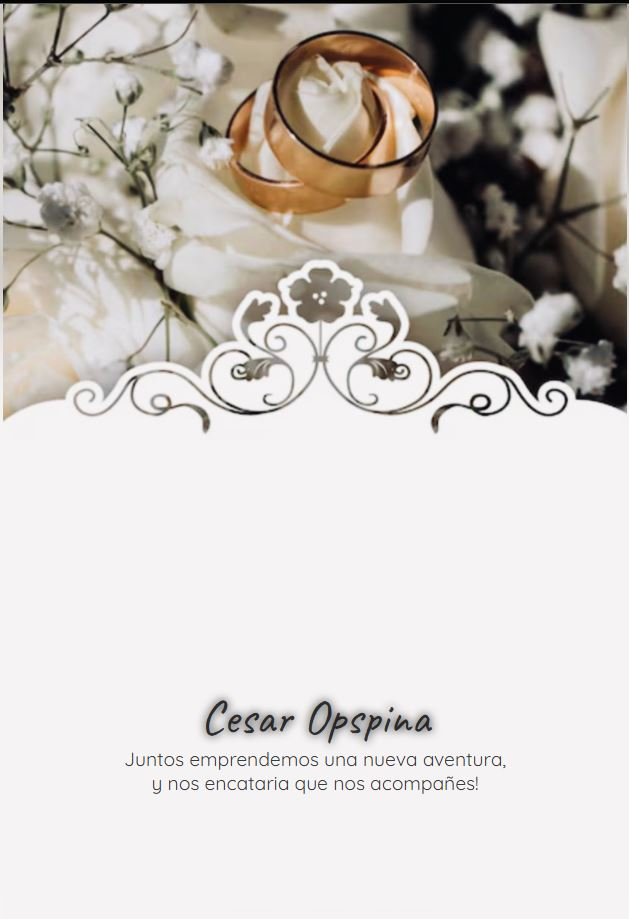
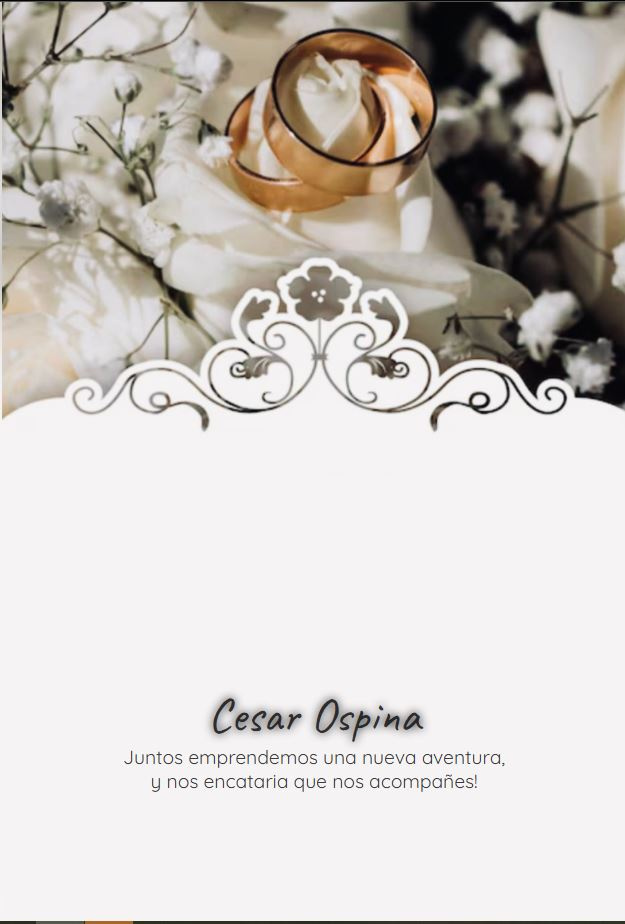
commit

diff --git a/miniatura.html b/miniatura.html
@@ -25,7 +25,7 @@
         <div class="main-bg"></div>
       </div>
       <h1 class="heading-img">
-        Cesar Opspina
+        Cesar Ospina
         <span class="heading-img-subtext">Juntos emprendemos una nueva aventura,</span>
         <span class="heading-img-subtext">y nos encataria que nos acompañes!</span>
 
